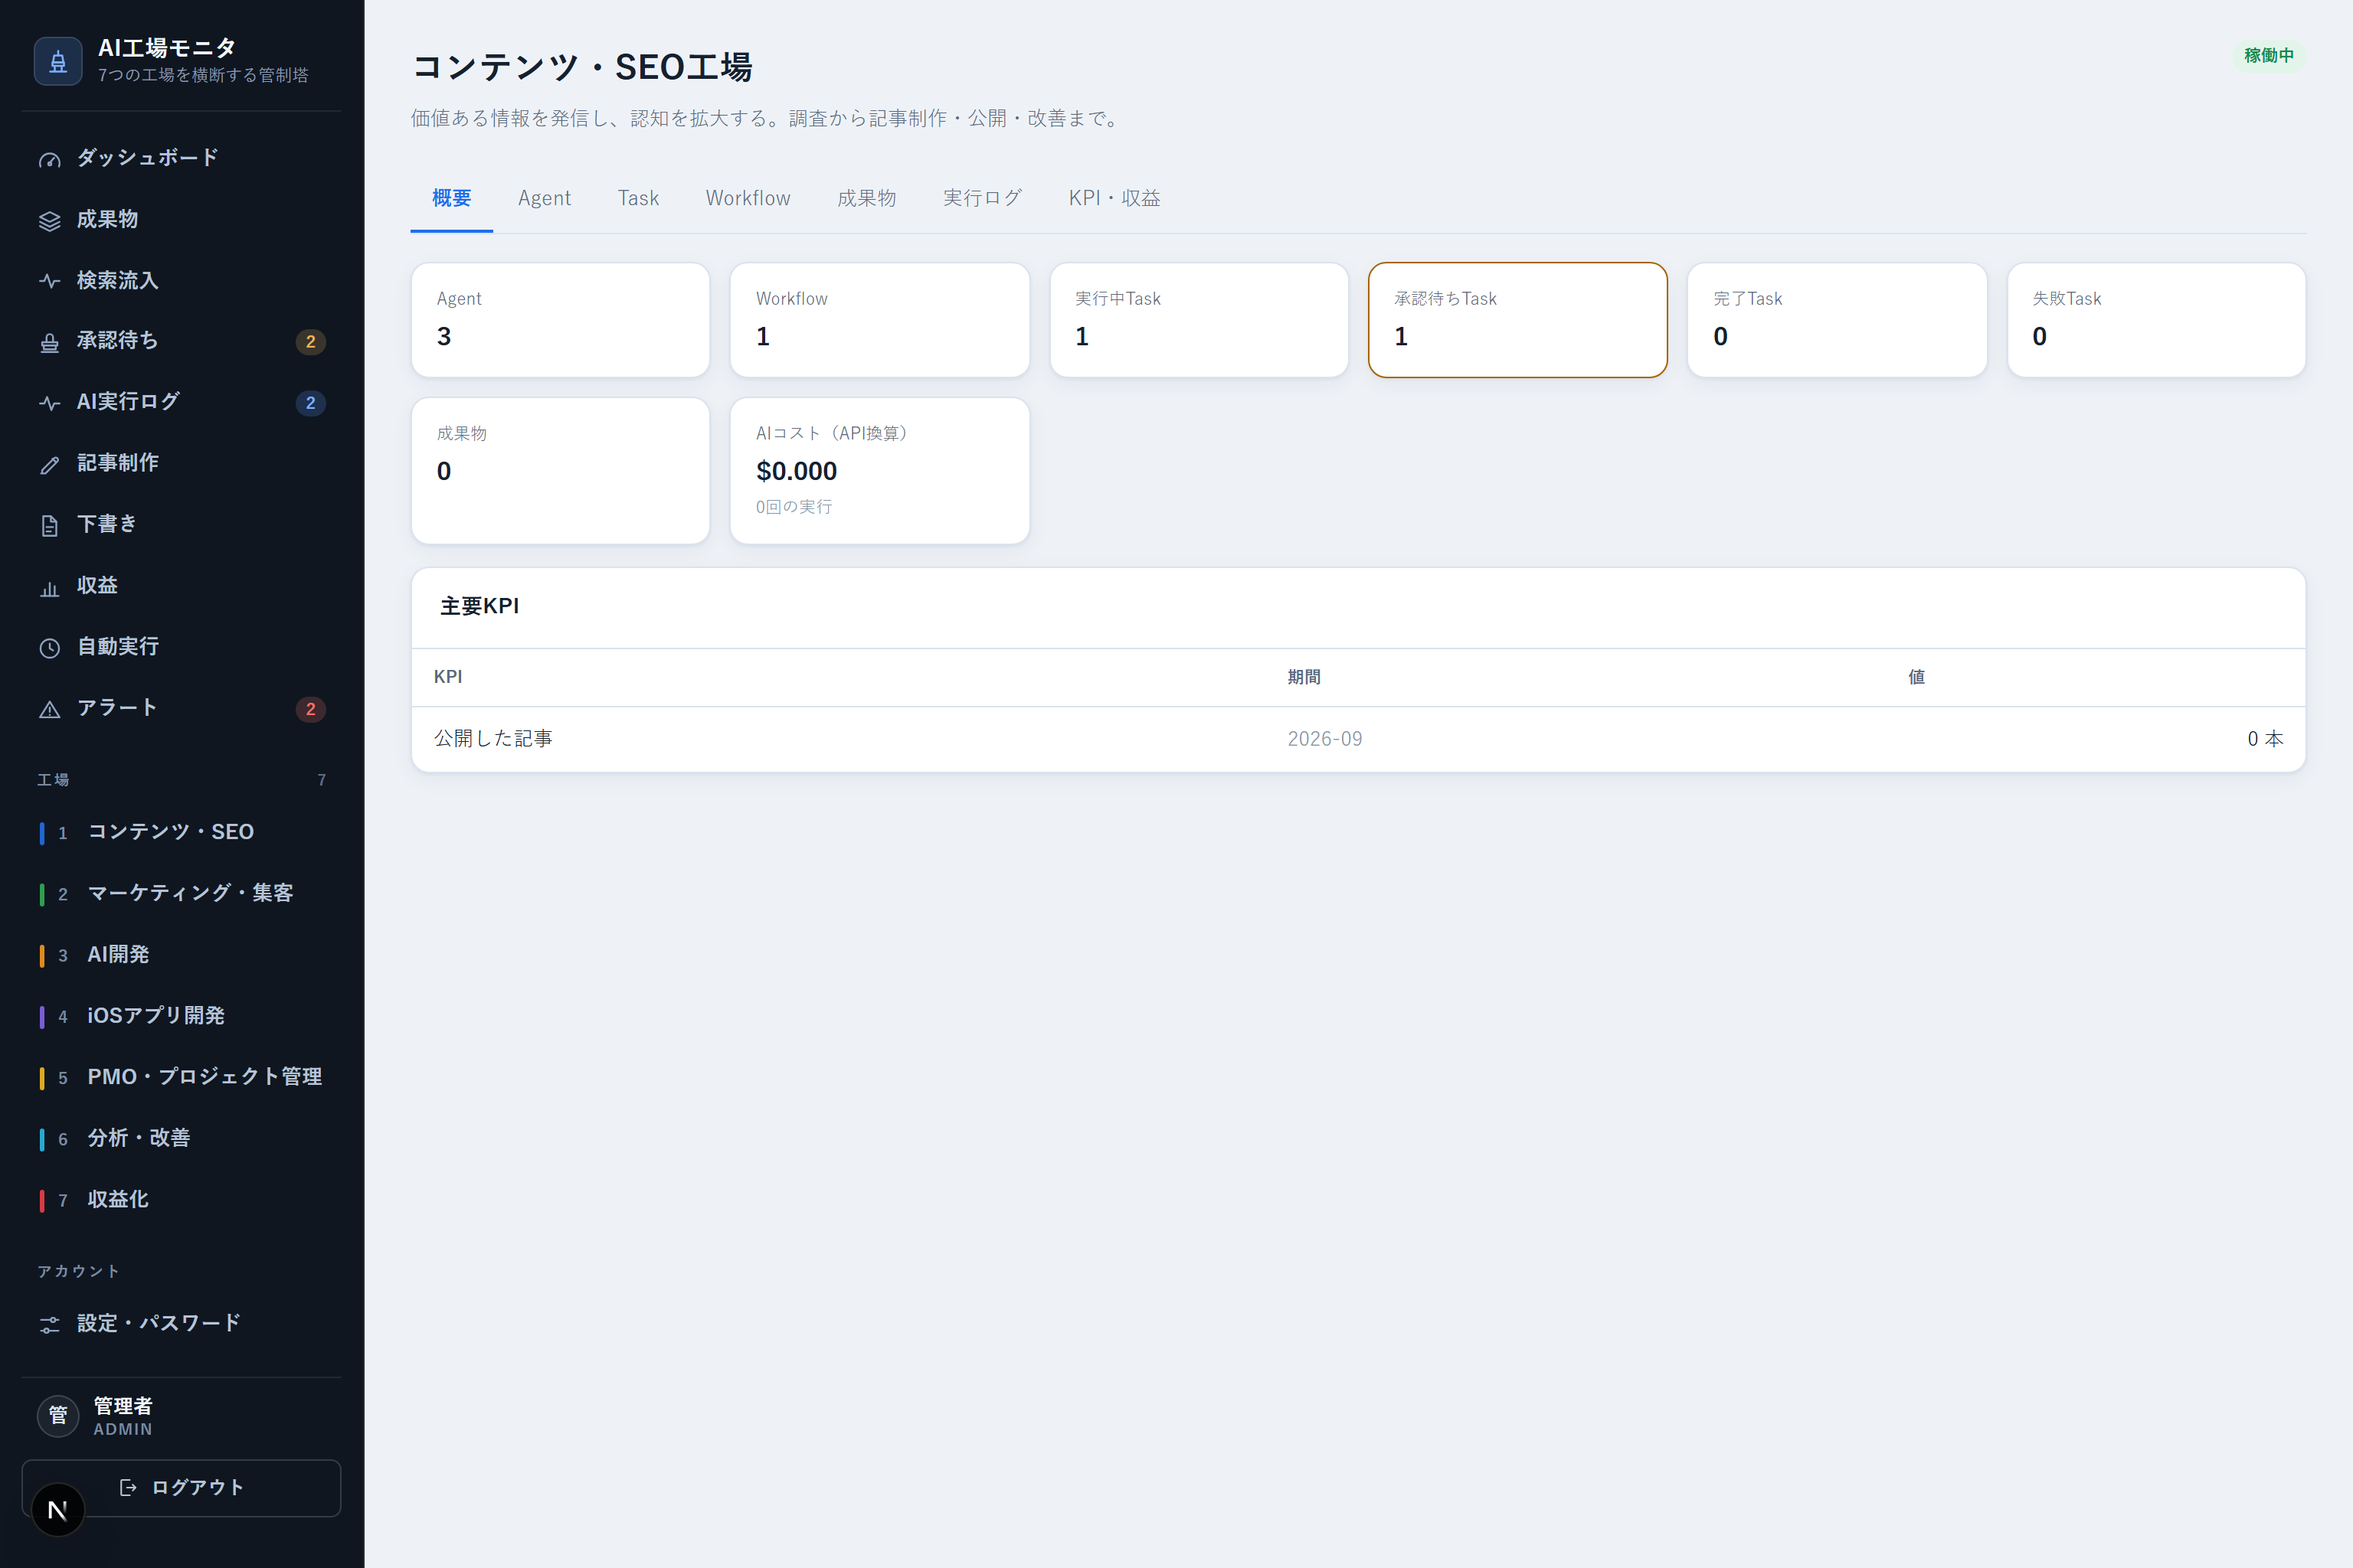
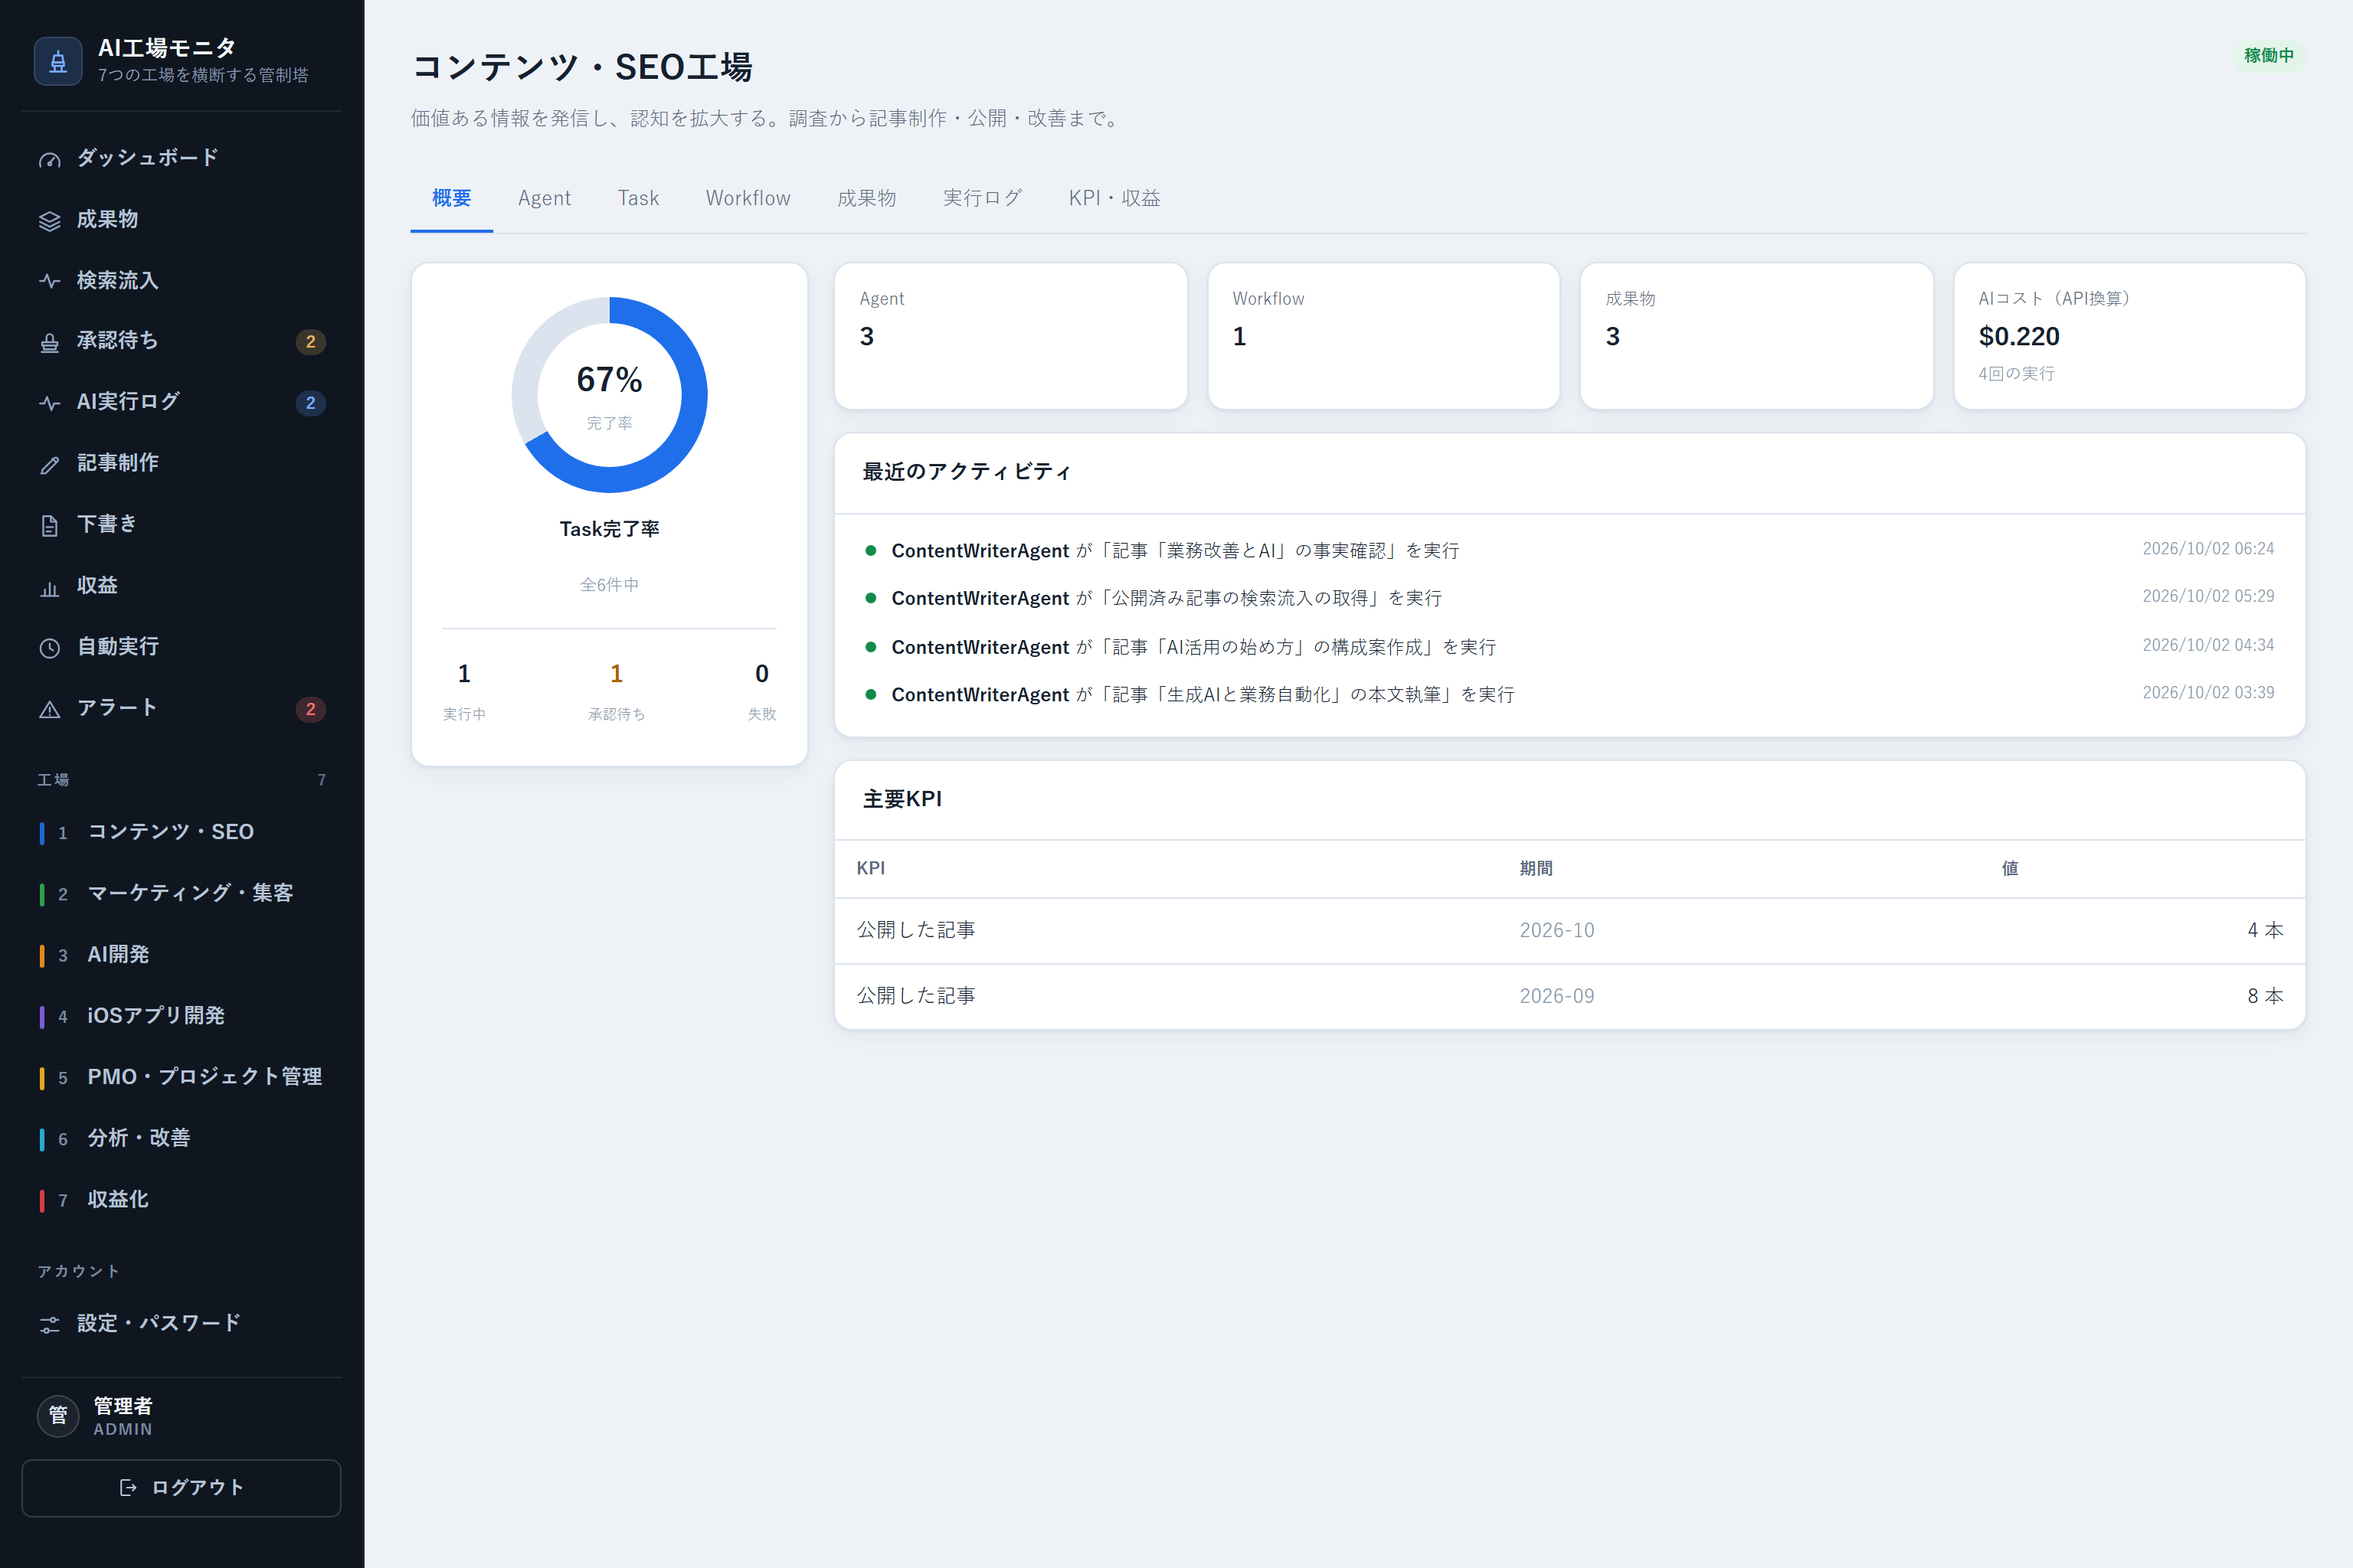
feat: AI工場OSページの7工場の画面を、刷新した概要タブの画像に差し替え

Changed region(s): [[0.1875, 0.1875, 0.9688, 0.5312], [0.9062, 0.3438, 0.9688, 0.375], [0.0, 0.9375, 0.0312, 1.0]]

diff --git a/ai-factory.html b/ai-factory.html
@@ -534,7 +534,7 @@ img{max-width:100%}
         <li><strong>内部リンク設計 → 承認 → 公開</strong> — 承認後、自社ブログ・クライアント先へ公開します</li>
         <li><strong>公開後もデータを取得</strong> — アクセス状況を取得し、リライト提案・動画化連携まで継続します</li>
       </ol>
-      <div class="fig-frame"><img src="fig_ai_factory_detail.png" alt="コンテンツ・SEO工場の詳細画面。Agent数・Workflow数・実行中Task・承認待ちTask・完了Task・失敗Task・成果物・AIコストのカードと、主要KPI（平均掲載順位・オーガニック流入・公開記事数）の一覧が表示されている" class="fig" loading="lazy" width="1536" height="1024"></div>
+      <div class="fig-frame"><img src="fig_ai_factory_detail.png" alt="コンテンツ・SEO工場の概要画面。Task完了率のグラフ、Agent・Workflow・成果物・AIコストのカード、最近のアクティビティ、主要KPIが表示されている" class="fig" loading="lazy" width="1536" height="1024"></div>
       <p class="fig-cap">コンテンツ・SEO工場の詳細画面（実際の画面。数値はデモデータです）</p>
     </div>
 
@@ -548,7 +548,7 @@ img{max-width:100%}
         <li><strong>返信・提案・応募文の下書きを作成</strong> — 料金の目安は、公開中のLPに書かれている範囲だけを使います（無い金額は作りません）</li>
         <li><strong>送信・投稿は人が行う</strong> — 下書きを確認し、実際の送信・応募・投稿は人が判断して行います</li>
       </ol>
-      <div class="fig-frame"><img src="fig_ai_factory_marketing-acquisition.png" alt="マーケティング・集客工場の詳細画面。見込み客を集め案件につなげる工場として、Agent・Task・KPI（今月の取り込みメール件数）が表示されている" class="fig" loading="lazy" width="1536" height="900"></div>
+      <div class="fig-frame"><img src="fig_ai_factory_marketing-acquisition.png" alt="マーケティング・集客工場の概要画面。Task完了率のグラフ、Agent・Workflow・成果物・AIコストのカード、最近のアクティビティ、主要KPIが表示されている" class="fig" loading="lazy" width="1536" height="900"></div>
       <p class="fig-cap">マーケティング・集客工場の詳細画面（実際の画面。数値はデモデータです）</p>
     </div>
 
@@ -562,7 +562,7 @@ img{max-width:100%}
         <li><strong>リリース手順 → 承認</strong> — 本番への反映手順をまとめ、人が承認してから進みます</li>
         <li><strong>自動でClaude Codeに渡して実装</strong> — 承認された指示書は自動でClaude Code（AI）に渡され、実装まで進みます。完了するとAI工場へ戻ります</li>
       </ol>
-      <div class="fig-frame"><img src="fig_ai_factory_ai-development.png" alt="自社AI開発工場の詳細画面。自社プロダクトのアイデア評価から開発案件の推進までを担当するAgent・Task・KPIが表示されている" class="fig" loading="lazy" width="1536" height="900"></div>
+      <div class="fig-frame"><img src="fig_ai_factory_ai-development.png" alt="自社AI開発工場の概要画面。Task完了率のグラフ、Agent・Workflow・成果物・AIコストのカード、最近のアクティビティ、主要KPIが表示されている" class="fig" loading="lazy" width="1536" height="900"></div>
       <p class="fig-cap">自社AI開発工場の詳細画面（実際の画面。数値はデモデータです）</p>
     </div>
 
@@ -576,7 +576,7 @@ img{max-width:100%}
         <li><strong>実装</strong> — 承認された仕様をもとに、Claude Code（AI）が実装します</li>
         <li><strong>実機での動作確認</strong> — 実際のiPhoneにインストールし、動作を確認します</li>
       </ol>
-      <div class="fig-frame"><img src="fig_ai_factory_ios-development.png" alt="iOSアプリ開発工場の詳細画面。市場調査から仕様設計、実機動作確認までを担当するAgent・Task・KPIが表示されている" class="fig" loading="lazy" width="1536" height="900"></div>
+      <div class="fig-frame"><img src="fig_ai_factory_ios-development.png" alt="iOSアプリ開発工場の概要画面。Task完了率のグラフ、Agent・Workflow・成果物・AIコストのカード、最近のアクティビティ、主要KPIが表示されている" class="fig" loading="lazy" width="1536" height="900"></div>
       <p class="fig-cap">iOSアプリ開発工場の詳細画面（実際の画面。数値はデモデータです）</p>
     </div>
 
@@ -589,7 +589,7 @@ img{max-width:100%}
         <li><strong>クイック入力を受付</strong> — 「思いついたこと」を自由入力すると、AIが内容を読み取ります</li>
         <li><strong>内容に応じて提案</strong> — ナレッジ登録・予定・アプリ企画のいずれかを提案し、人が確認して登録します</li>
       </ol>
-      <div class="fig-frame"><img src="fig_ai_factory_pmo-project.png" alt="PMO・プロジェクト管理工場の詳細画面。案件・プロジェクトの進行管理を担当するAgent・Task・KPIが表示されている" class="fig" loading="lazy" width="1536" height="900"></div>
+      <div class="fig-frame"><img src="fig_ai_factory_pmo-project.png" alt="PMO・プロジェクト管理工場の概要画面。Task完了率のグラフ、Agent・Workflow・成果物・AIコストのカード、最近のアクティビティ、主要KPIが表示されている" class="fig" loading="lazy" width="1536" height="900"></div>
       <p class="fig-cap">PMO・プロジェクト管理工場の詳細画面（実際の画面。数値はデモデータです）</p>
     </div>
 
@@ -603,7 +603,7 @@ img{max-width:100%}
         <li><strong>検討開始／見送りを人が選ぶ</strong> — 提案は一覧で管理され、「AIからの提案」として管制塔にも表示されます</li>
         <li><strong>承認を経てリライトを実行</strong> — 検討開始にした提案は、承認と二段階の確認を経て本番に反映する仕組みです</li>
       </ol>
-      <div class="fig-frame"><img src="fig_ai_factory_analytics-improvement.png" alt="分析・改善工場の詳細画面。公開済みコンテンツのアクセス状況などを分析し改善提案を作成するAgent・Task・KPIが表示されている" class="fig" loading="lazy" width="1536" height="900"></div>
+      <div class="fig-frame"><img src="fig_ai_factory_analytics-improvement.png" alt="分析・改善工場の概要画面。Task完了率のグラフ、Agent・Workflow・成果物・AIコストのカード、最近のアクティビティ、主要KPIが表示されている" class="fig" loading="lazy" width="1536" height="900"></div>
       <p class="fig-cap">分析・改善工場の詳細画面（実際の画面。数値はデモデータです）</p>
     </div>
 
@@ -616,7 +616,7 @@ img{max-width:100%}
         <li><strong>KPIとして管制塔に反映</strong> — 総売上・粗利などをAI工場モニタに表示します</li>
         <li><strong>コスト超過はアラートで通知</strong> — AI利用コストが上限に近づくと警告を出します</li>
       </ol>
-      <div class="fig-frame"><img src="fig_ai_factory_monetization.png" alt="収益化工場の詳細画面。収益データを一元管理しKPIとして各工場・管制塔に反映するAgent・Task・KPIが表示されている" class="fig" loading="lazy" width="1536" height="900"></div>
+      <div class="fig-frame"><img src="fig_ai_factory_monetization.png" alt="収益化工場の概要画面。Task完了率のグラフ、Agent・Workflow・成果物・AIコストのカード、最近のアクティビティ、主要KPIが表示されている" class="fig" loading="lazy" width="1536" height="900"></div>
       <p class="fig-cap">収益化工場の詳細画面（実際の画面。数値はデモデータです）</p>
     </div>
   </div>
